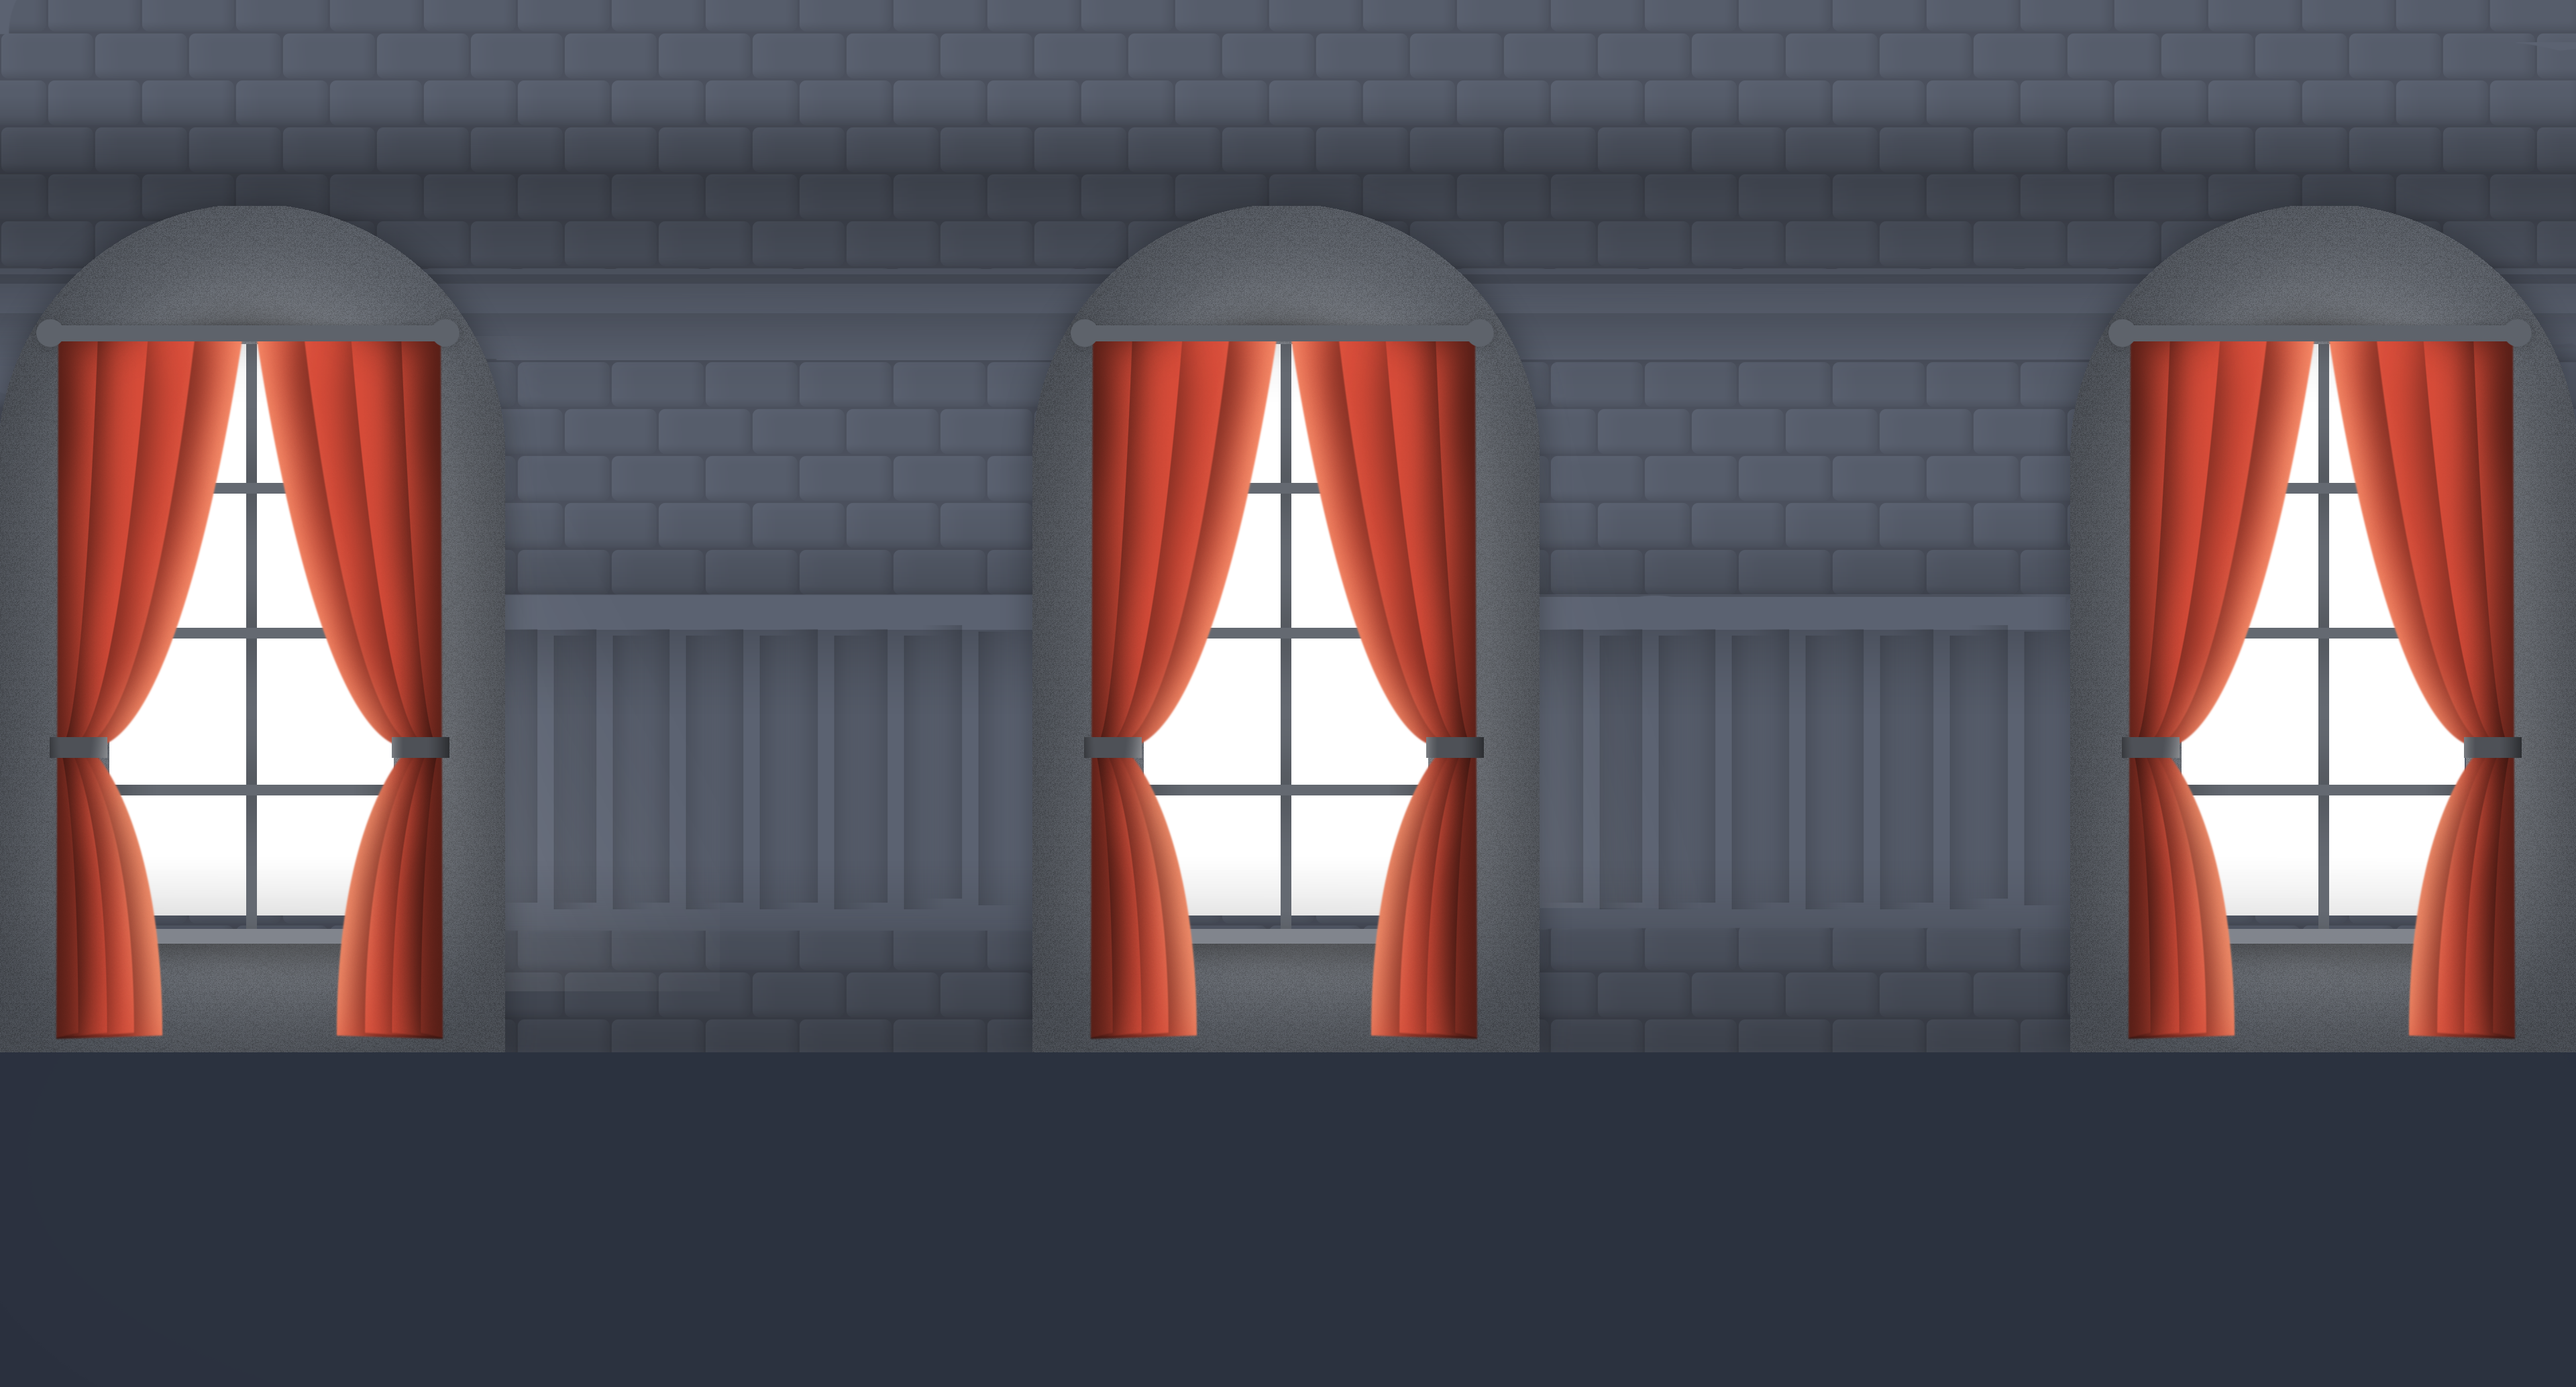
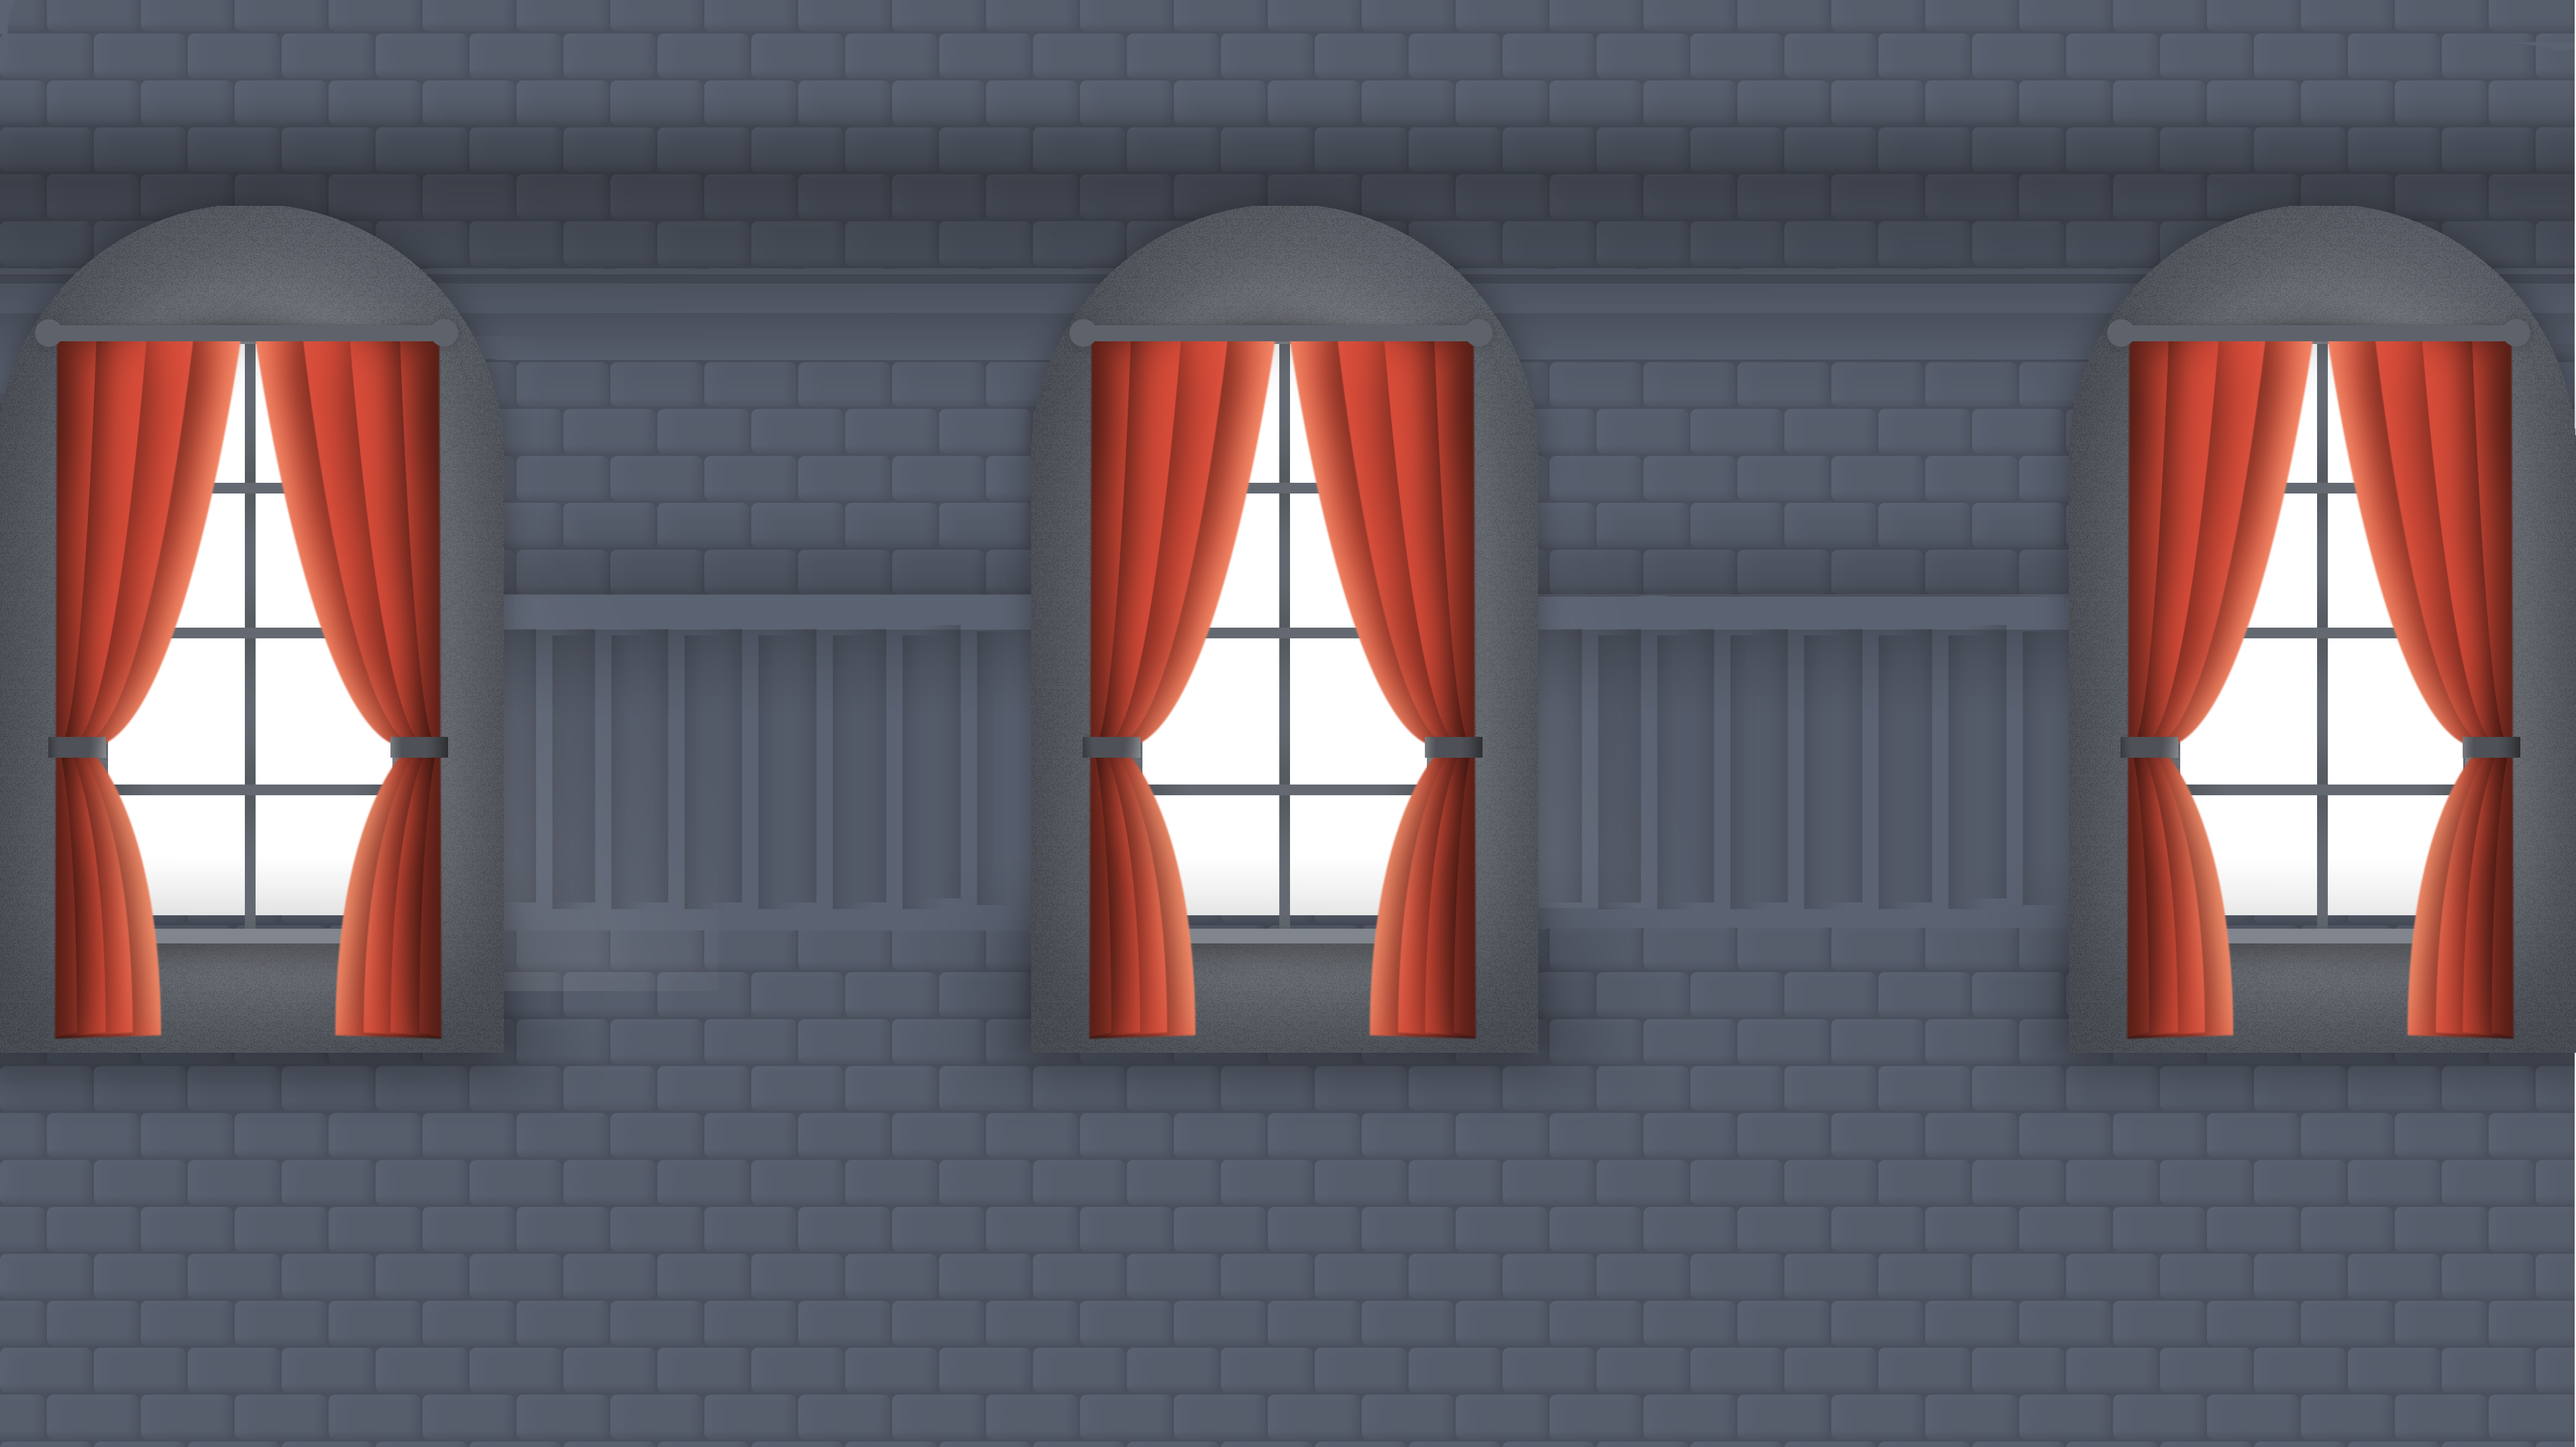
Responsive Done. Changes to be added.

diff --git a/assets/css/style.css b/assets/css/style.css
@@ -12,6 +12,7 @@
 body {
     font-family: "Open Sans", sans-serif;
     color: #444444;
+    /* width: 10%; */
 }
 
 a {
@@ -444,15 +445,42 @@ h6 {
     /* opacity: 0.1; */
 }
 
+
+.bg-down-index
+{
+    margin-top: -5px;
+    min-width: 600px;
+    max-width: 1500px;
+    width: 100%;
+    /* width: 100%; */
+    /* height: 200px; */
+}
+
+.bg-down-index img{
+    margin-top: -5px;
+    width: 100%;
+}
+
 .bg-down
 {
-    width: 98vw;
+    margin-top: -5px;
+    /* min-width: 600px;
+    max-width: 1500px; */
+    width: 100%;
+    /* width: 100%; */
     /* height: 200px; */
 }
 
 .bg-down-space{
     background-color: #101620;
     height: 1000px;
+    width: 100%;
+}
+
+.bg-down-space-index{
+    background-color: #101620;
+    height: 1000px;
+    width: 600px;
 }
 
 .bg-down img{
@@ -539,6 +567,8 @@ h6 {
     /* background-color: #353; */
     position: relative;
     height: 100vh;
+    max-width: 1500px;
+    min-width: 600px;
     width: 100%;
     overflow: hidden;
 }
@@ -560,9 +590,9 @@ h6 {
 }
 
 .class-0 {
-    width: calc(3840 / 1.8 * 100% / 1920);
+    width: calc(3840 / 1.4 * 100% / 1920);
     position: absolute;
-    top: calc(50%);
+    top: calc(70%);
     left: calc(50%);
     transform: translate(-50%, -50%);
 }
@@ -618,7 +648,7 @@ h6 {
 .class-3 {
     width: calc(719 / 1.8 * 100% / 1920);
     position: absolute;
-    top: calc(50% + 130 / 1.8 * 100% / 1080);
+    top: calc(50% + 300 / 1.8 * 100% / 1080);
     left: calc(50% + 850 / 1.8 * 100% / 1920);
     transform: translate(-50%, -50%);
 }
@@ -675,7 +705,7 @@ h6 {
     transform: translate(-50%, -50%);
 }
 
-.name {
+.parellax-name {
     /* width: calc(300 / 1.8 * 100% / 1920); */
     position: absolute;
     top: calc(50% + 0 / 1.8 * 100% / 1080);
@@ -692,7 +722,7 @@ h6 {
     background-color: rgb(16, 22, 32);
 }
 
-.desc {
+.parellax-desc {
     /* width: calc(300 / 1.8 * 100% / 1920); */
     position: absolute;
     top: calc(50% + 200 / 1.8 * 100% / 1080);
@@ -720,6 +750,27 @@ h6 {
     #hero .container {
         padding-top: 58px;
     }
+}
+
+@media (max-width:1165px) {
+    .parellax-name {
+        font-size: 3.1rem;
+    }
+
+    .parellax-desc{
+        font-size: 2rem;;
+    }   
+}
+
+@media (max-width:725px) {
+    .parellax-name {
+        font-size: 2.5rem;
+        line-height: 0.5rem;
+    }
+
+    .parellax-desc{
+        font-size: 1.7rem;;
+    }   
 }
 
 #hero h1 {

diff --git a/index.html b/index.html
@@ -79,6 +79,9 @@
   </section>End Hero -->
 
   <main class="mained">
+
+    <img src="assets/img/parellax/completeBG.png" class="complete-BG">
+
     <img src = "assets/img/parellax/BG.png" data-speedx="0.26" data-speedy="0" data-speedz="0" class="parellax bg">
     <img src = "assets/img/parellax/SUB BG.png" data-speedx="0.23" data-speedy="0" data-speedz="0" class="parellax sub-bg">
     <img src = "assets/img/parellax/0.png" data-speedx="0.2" data-speedy="0" data-speedz="0" class="parellax class-0">
@@ -87,14 +90,14 @@
     <img src = "assets/img/parellax/3.png" data-speedx="0.18" data-speedy="0.38" data-speedz="1" class="parellax class-3">
     <img src = "assets/img/parellax/4.png" data-speedx="0.16" data-speedy="0" data-speedz="0" class="parellax class-4">
     
-    <h2 class="parellax name" data-speedx="0.145" data-speedy="" data-speedz="0">Anmol Agarwal</h2>
+    <h2 class="parellax parellax-name" data-speedx="0.145" data-speedy="" data-speedz="0">Anmol Agarwal</h2>
     
     <img src = "assets/img/parellax/5.png" data-speedx="0.13" data-speedy="0.38" data-speedz="1" class="parellax class-5">
     <img src = "assets/img/parellax/6.png" data-speedx="0.13" data-speedy="0.38" data-speedz="1" class="parellax class-6">
     <img src = "assets/img/parellax/7.png" data-speedx="0.1" data-speedy="0.38" data-speedz="1" class="parellax class-7">
     <img src = "assets/img/parellax/8.png" data-speedx="0.1" data-speedy="0.38" data-speedz="1" class="parellax class-8">
 
-    <h2 class="parellax desc" data-speedx="0.145" data-speedy="" data-speedz="0">Game Developer</h2>
+    <h2 class="parellax parellax-desc" data-speedx="0.145" data-speedy="" data-speedz="0">Game Developer</h2>
 
     <img src = "assets/img/parellax/9.png" data-speedx="0.05" data-speedy="0" data-speedz="0" class="parellax class-9">
     <img src = "assets/img/parellax/10.png" data-speedx="0.05" data-speedy="0.38" data-speedz="1" class="parellax class-10">
@@ -119,8 +122,8 @@
     </div> -->
   <!-- </footer>End  Footer -->
 
-  <div class="bg-down">
-    <div class="bg-down-space"></div>
+  <div class="bg-down-index">
+    <div class="bg-down-space-index"></div>
     <img src="./assets/img/parellax/BG-down.png">
   </div>
 

diff --git a/assets/js/main.js b/assets/js/main.js
@@ -10,6 +10,18 @@
   "use strict";
 
   const parellax_el = document.querySelectorAll( ".parellax" );
+  const mained = document.querySelector(".mained" );
+
+  const parellel_text = document.querySelector("parellax-name")
+
+  // if(window.innerWidth>= 725)
+  // {
+  //   mained.style.maxHeight = `${0.6 * window.innerWidth}px`
+  // }else
+  // {
+  //   mained.style.maxHeight = `${1.6 * window.innerWidth}px`
+  // }
+
 
   let xVal = 0, yVal = 0;
 
@@ -17,19 +29,21 @@
 
   window.addEventListener( "mousemove", ( e ) =>
   {
-    xVal = e.clientX - window.innerWidth / 2;
-    yVal = e.clientY - window.innerHeight / 2;
-
-
-    parellax_el.forEach( ( el ) =>
+    if(window.innerWidth >600)
     {
-      let isleft = parseFloat( getComputedStyle( el ).left ) < window.innerWidth / 2 ? 1 : -1;
-      let zVal = ( e.clientX - ( parseFloat( getComputedStyle( el ).left ) ) ) * isleft;
-      let speedx = el.dataset.speedx;
-      let speedy = el.dataset.speedx * window.innerHeight / window.innerWidth;
-      let sppedz = el.dataset.speedz;
-      el.style.transform = `translateX(calc(-50% + ${ -xVal * speedx }px)) translateY(calc(-50% + ${ yVal * speedy }px)) perspective(1920px) translateZ(${ zVal * 0.01 }px)`;
-    } );
+      xVal = e.clientX - window.innerWidth / 2;
+      yVal = e.clientY - window.innerHeight / 2;
+      
+      parellax_el.forEach( ( el ) =>
+      {
+        let isleft = parseFloat( getComputedStyle( el ).left ) < window.innerWidth / 2 ? 1 : -1;
+        let zVal = ( e.clientX - ( parseFloat( getComputedStyle( el ).left ) ) ) * isleft;
+        let speedx = el.dataset.speedx;
+        let speedy = el.dataset.speedx * window.innerHeight / window.innerWidth;
+        let sppedz = el.dataset.speedz;
+        el.style.transform = `translateX(calc(-50% + ${ -xVal * speedx }px)) translateY(calc(-50% + ${ yVal * speedy }px)) perspective(1000px) translateZ(${ zVal * 0.01 }px)`;
+      })
+    };
   } );
 
   /**
